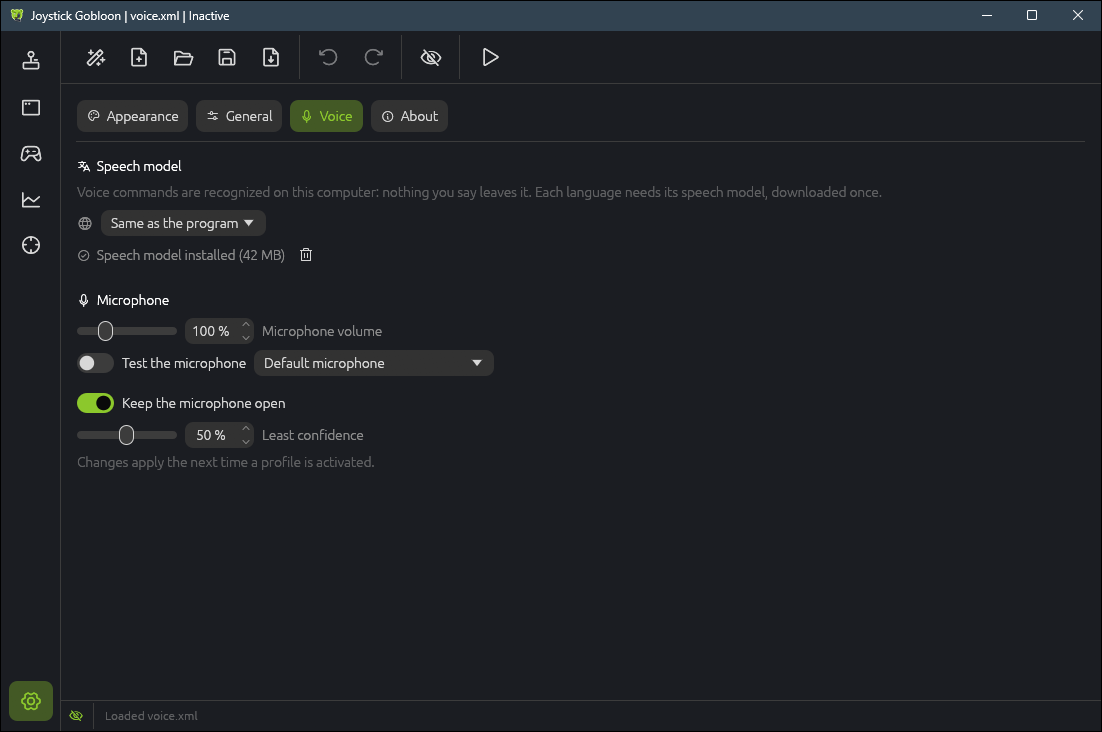
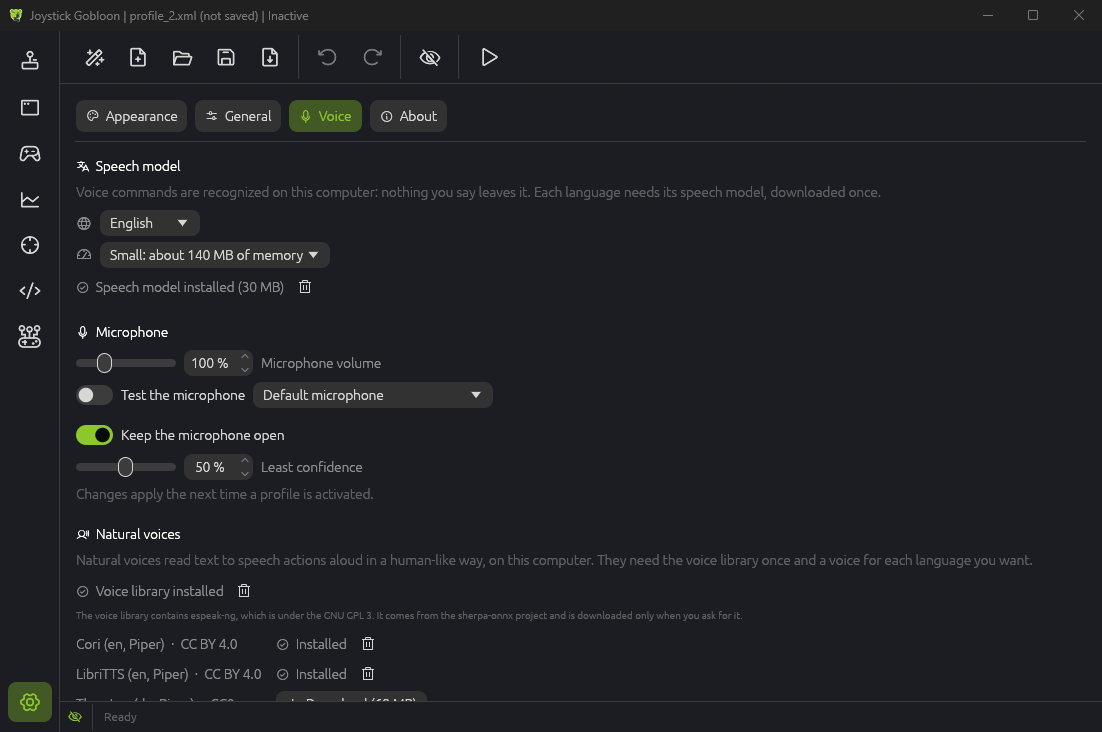
docs: voice pages for the new speech engine and natural voices

diff --git a/site/voice.html b/site/voice.html
@@ -167,18 +167,18 @@
           <article class="learn-action" id="how-it-works">
             <h3><i class="ph ph-microphone" aria-hidden="true"></i>How it works</h3>
             <p>A voice command is a button of its own, on the <span class="term">Voice</span> tab of the Devices page, with one or more phrases that set it off. The microphone listens only while you hold a push-to-talk input: a stick button, a key or a gamepad button with the <a href="learn.html#voice-input">Voice input</a> action. When you let go, what you said is matched against the profile's phrases, and the command it belongs to presses its button for a moment, so its actions run like any button's.</p>
-            <p>Only the profile's own phrases are listened for. That makes recognition quick (a few milliseconds after you let go) and keeps other words from being taken for commands.</p>
+            <p>What you said is written out as text and compared with the profile's own phrases; the closest one wins, and speech close to none of them does nothing. Recognition takes a fraction of a second after you let go.</p>
           </article>
           <article class="learn-action" id="privacy">
             <h3><i class="ph ph-lock-simple" aria-hidden="true"></i>Offline and private</h3>
-            <p>Speech is recognized on your computer by the <a href="https://alphacephei.com/vosk/">Vosk</a> speech library: nothing you say leaves it, and nothing is recorded. The microphone is heard only while the push-to-talk input is held. The one download is the speech model of your language, once, when you ask for it.</p>
+            <p>Speech is recognized on your computer by the <a href="https://github.com/k2-fsa/sherpa-onnx">sherpa-onnx</a> speech library: nothing you say leaves it, and nothing is recorded. The microphone is heard only while the push-to-talk input is held. The one download is the speech model of your language, once, when you ask for it.</p>
           </article>
           <article class="learn-action" id="requirements">
             <h3><i class="ph ph-list-checks" aria-hidden="true"></i>What you need</h3>
             <ul>
               <li>Joystick Gobloon 0.12 or newer on Windows or Linux. The speech library comes with the installer, the portable zip and the AppImage.</li>
               <li>A microphone: a headset, a desk microphone or a webcam's. On Windows, allow desktop apps to use the microphone in Privacy settings.</li>
-              <li>The speech model of the language you speak, about 40 MB (Korean about 85 MB). There are models for English, German, Spanish, French, Korean, Russian and Chinese.</li>
+              <li>The speech model of the language you speak: a small one (30-110 MB to download, 140-350 MB of memory while a profile with voice commands is active) or a large, more accurate one (110-490 MB, 340-1400 MB of memory). There are models for English, German, Spanish, French, Korean (small only), Russian and Chinese.</li>
             </ul>
           </article>
         </section>
@@ -187,9 +187,9 @@
           <h2 id="setup-title">Setting it up</h2>
           <article class="learn-action" id="language">
             <h3><i class="ph ph-translate" aria-hidden="true"></i>1. Speech model</h3>
-            <p>Open <span class="term">Settings</span>, <span class="term">Voice</span>. Commands are spoken in the program's language unless you choose another one in the list (<span class="term">Same as the program</span> is the default), so you can keep the program in one language and speak another. Click <span class="term">Download the speech model</span>; the progress bar shows the download, which is checked and unpacked by itself. <span class="term">Speech model installed</span> means it is ready; the bin removes it again.</p>
+            <p>Open <span class="term">Settings</span>, <span class="term">Voice</span>. Commands are spoken in the program's language unless you choose another one in the list (<span class="term">Same as the program</span> is the default), so you can keep the program in one language and speak another. <span class="term">Model size</span> chooses between the small model and the large, more accurate one; each shows the memory it needs. Small is enough for most commands; take the large one for a strong accent or a noisy room if the computer has memory to spare. Click <span class="term">Download the speech model</span>; the progress bar shows the download, which is checked and unpacked by itself. <span class="term">Speech model installed</span> means it is ready; the bin removes it again.</p>
             <p>Models are kept in the <code>voice</code> folder of the program's data folder: <code>%APPDATA%\JoystickGobloon\voice</code> on Windows, <code>~/.config/JoystickGobloon/voice</code> on Linux, or next to the program for a portable copy with its own settings.</p>
-            <figure class="shot"><img src="img/voice-settings.png" loading="lazy" width="1102" height="732" alt="Settings, Voice: the speech model in the program's language is installed, the microphone volume at 100 %, the microphone test, Keep the microphone open switched on and the least confidence at 50 %"></figure>
+            <figure class="shot"><img src="img/voice-settings.png" loading="lazy" width="1102" height="732" alt="Settings, Voice: English, the small speech model (about 140 MB of memory) installed, the microphone volume at 100 %, the microphone test, Keep the microphone open switched on, the least confidence at 50 %, and below, Natural voices with the voice library and two English voices installed"></figure>
           </article>
           <article class="learn-action" id="microphone">
             <h3><i class="ph ph-speaker-high" aria-hidden="true"></i>2. Microphone check</h3>
@@ -254,7 +254,7 @@
             <ul>
               <li>Two or three words are recognized more surely than one short word: "gear down" rather than "gear".</li>
               <li>Phrases that sound alike in different commands get mixed up: make them differ from the first word.</li>
-              <li>Use everyday words of the model's language; names, abbreviations and rare word forms it does not know are not heard. While the profile is active, a warning sign next to a phrase names the words the model does not know. A word with a pronoun stuck to it is often one of them: write the pronoun as a word of its own (Spanish "cubre me" for "cúbreme"); said quickly, it sounds the same.</li>
+              <li>Use everyday words of the model's language. Names and abbreviations are written out the way they sound, so a phrase spelled the same way ("ils" rather than "ILS") is matched more surely.</li>
               <li>Give a command a second phrase for the way you say it in a hurry.</li>
               <li>Press, then speak, then let go: a press shorter than about 0.15 s is taken for a slip and hears nothing.</li>
             </ul>
@@ -276,7 +276,7 @@
               <li><strong>Nothing happens when I speak</strong>: check that the profile is active and the push-to-talk input has the Voice input action (the Voice tab names it). Watch the status bar while you hold it.</li>
               <li><strong>"Heard nothing"</strong>: the microphone is muted, too quiet, blocked by the system's privacy settings, or another one listens. Test it in Settings, Voice and check the microphone in the Voice input action.</li>
               <li><strong>The first word is lost</strong>: keep <a href="#keep-open">Keep the microphone open</a> on, and start speaking a moment after the press.</li>
-              <li><strong>A phrase is never heard</strong>: look for the warning sign next to it on the Voice tab while the profile is active; the model does not know one of its words. See <a href="#good-phrases">Good phrases</a>.</li>
+              <li><strong>A phrase is never heard</strong>: look at what the status bar says was heard, and add that as a second phrase, or choose words that sound clearer. See <a href="#good-phrases">Good phrases</a>.</li>
               <li><strong>Wrong or no command</strong>: the bar of the microphone test should reach about the middle. Adjust the volume, choose clearer phrases, or lower the least confidence.</li>
               <li><strong>Other speech sets off commands</strong>: raise the least confidence.</li>
               <li><strong>Changed a setting and nothing changed</strong>: voice settings apply the next time a profile is activated.</li>

diff --git a/site/learn.html b/site/learn.html
@@ -465,7 +465,8 @@
           </article>
           <article class="learn-action" id="text-to-speech">
             <h3><i class="ph ph-chat-text" aria-hidden="true"></i>Text to speech</h3>
-            <p>Speaks a text with a voice of the system. <code>${current_mode}</code> becomes the name of the active mode. Speed, volume and pitch can be set; the new text can wait for the current one or interrupt it.</p>
+            <p>Speaks a text with a voice of the system or a natural voice. <code>${current_mode}</code> becomes the name of the active mode. Speed, volume and pitch can be set; the new text can wait for the current one or interrupt it.</p>
+            <p>Natural voices sound like a person reading. Get them in <span class="term">Settings</span>, <span class="term">Voice</span>, <span class="term">Natural voices</span>: download the voice library once (about 8 MB on Windows, 10 MB on Linux), then a voice for each language you want (60-80 MB each; English, German, Spanish, French, Russian and Chinese). They are listed first in the action's voice list, named with their language, and one of them can speak for every action without a voice of its own. Pitch does not change a natural voice. A voice takes about 100 MB of memory while it is in use and is let go after five quiet minutes. The voice library contains espeak-ng, which is under the GNU GPL 3, so it is a download of its own rather than part of the installer.</p>
             <figure class="shot"><img src="img/actions/text-to-speech.png" loading="lazy" alt="Text to speech saying the mode name"></figure>
           </article>
           <article class="learn-action" id="voice-input">

diff --git a/site/index.html b/site/index.html
@@ -488,7 +488,7 @@
               <tr><th scope="row">Device hiding</th><td>HidHide: hidden for every program, even when the app is closed</td><td>System Gobloon: hidden for every program, raw HID included, even when the app is closed. Without it: exclusive reading while Joystick Gobloon runs</td></tr>
               <tr><th scope="row">Physical controllers</th><td>DirectInput: all buttons. Xbox controllers through XInput: both triggers apart, also in the background</td><td>evdev: every button; a stick with more than 80 after you allow reading its raw device once</td></tr>
               <tr><th scope="row">Keyboard keys as inputs</th><td>Yes</td><td>Yes, after you allow keyboard input once on the Keyboard tab (any program you run can then read the keyboard)</td></tr>
-              <tr><th scope="row">Text to speech</th><td>Windows voices</td><td>speech dispatcher</td></tr>
+              <tr><th scope="row">Text to speech</th><td>Natural voices (download) or Windows voices</td><td>Natural voices (download) or speech dispatcher</td></tr>
               <tr><th scope="row">Voice commands</th><td>Yes, offline</td><td>Yes, offline</td></tr>
             </tbody>
           </table>

diff --git a/site/privacy.html b/site/privacy.html
@@ -29,7 +29,7 @@
 
     <h2>The app</h2>
     <p>Joystick Gobloon sends no usage data and has no account. It contacts GitHub only to check for a newer release and to download it. Settings, profiles and the log file stay on your computer.</p>
-    <p>Voice commands are recognized on your computer: the microphone is heard only while you hold the push-to-talk button, and no sound or text leaves your computer. The speech model for a language is downloaded once from alphacephei.com when you ask for it in the settings.</p>
+    <p>Voice commands are recognized on your computer: the microphone is heard only while you hold the push-to-talk button, and no sound or text leaves your computer. The speech model for a language, the voice library and natural voices for text to speech are downloaded from the sherpa-onnx project's releases on GitHub, only when you ask for them in the settings. Spoken text is made on your computer too.</p>
 
     <h2>Terms</h2>
     <p>Joystick Gobloon is free software under the <a href="https://github.com/h0useRus/JoystickGobloon/blob/main/LICENSE">MIT license</a>, provided as is, without warranty of any kind.</p>
